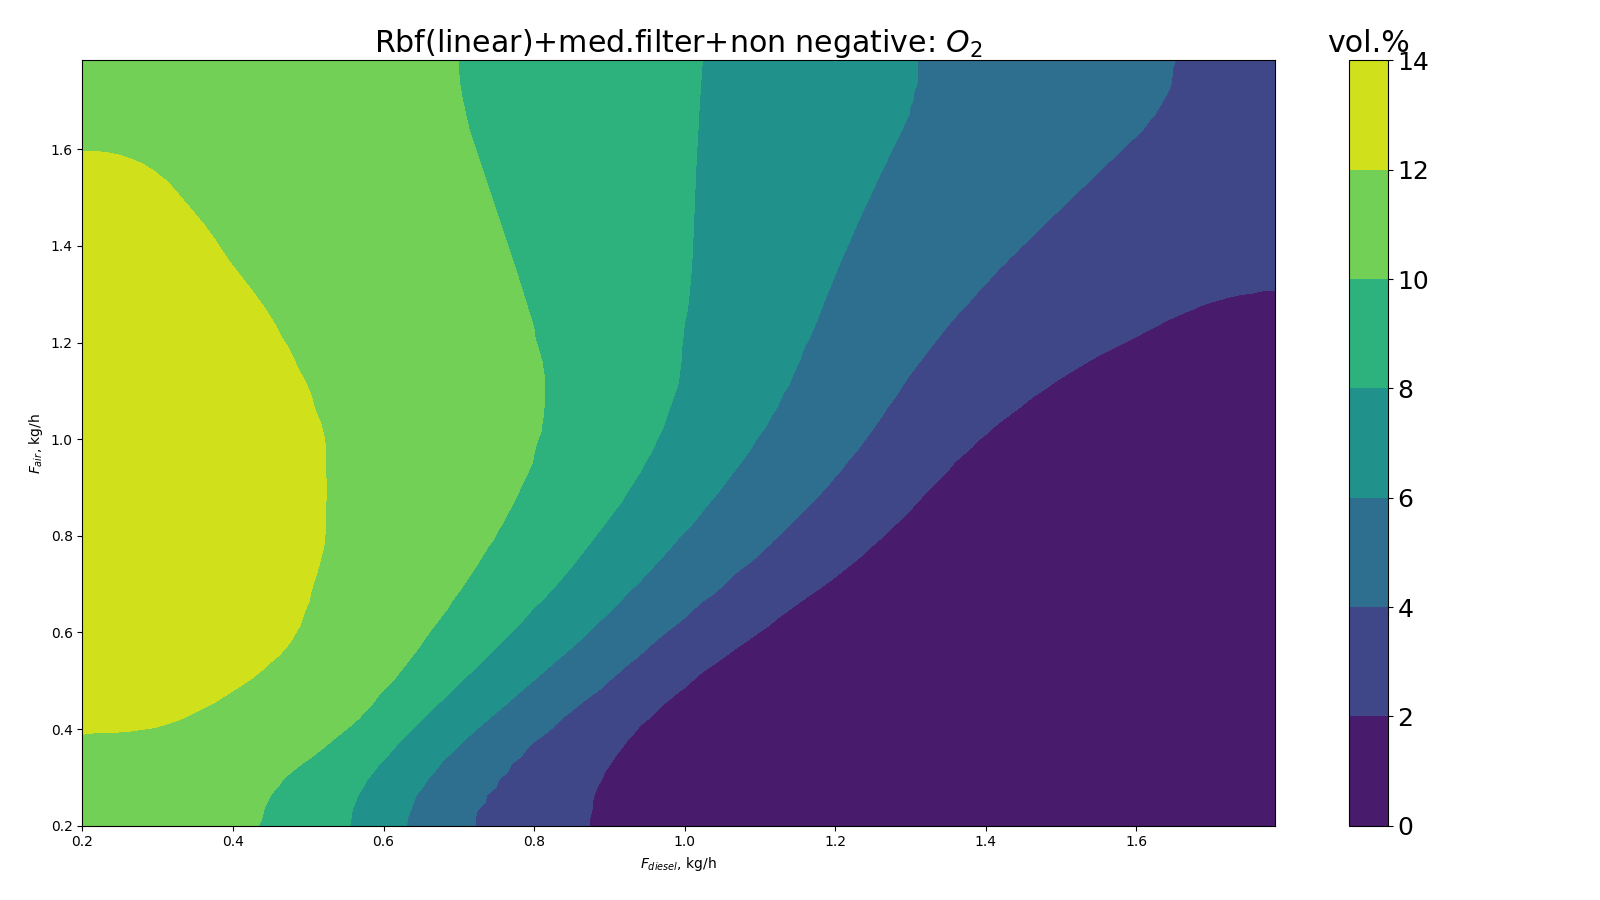
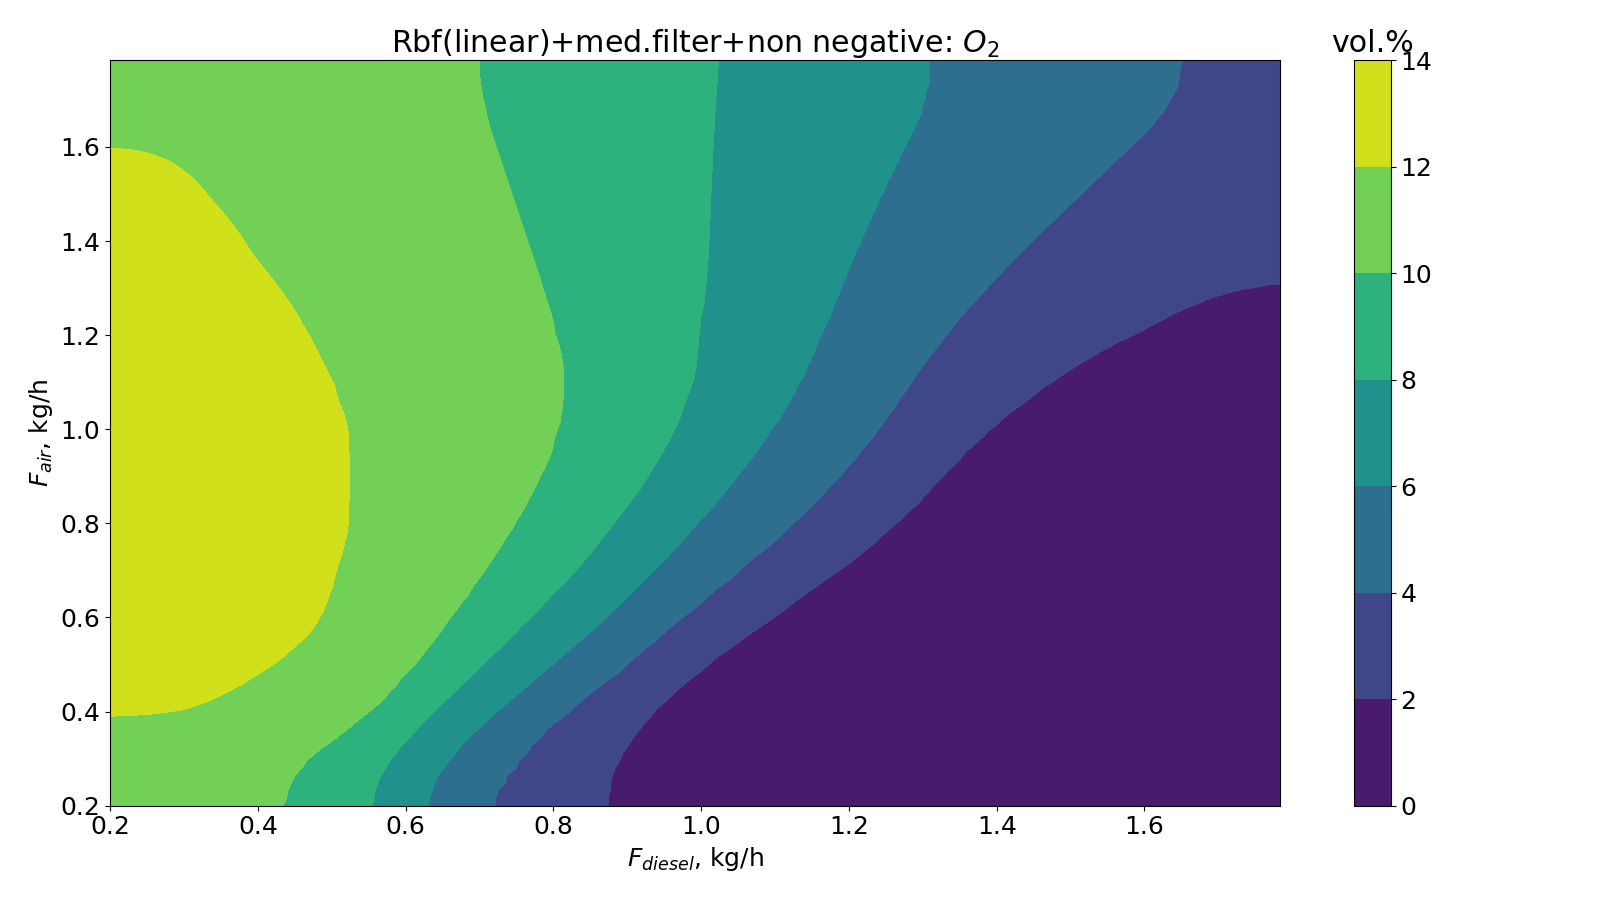
[Map] save_all_rbf_map [bug]: исправлен мелкий шрифт на O2.

diff --git a/control/map.py b/control/map.py
@@ -116,8 +116,9 @@ class Map:
 
             fig, ax = plt.subplots(figsize=(16, 9))
             plt.rcParams.update({'font.size': 18})
+            ax.tick_params(axis='both', which='both', labelsize=18)
 
-            plt.contourf(fuel_axis, additive_axis, approximated_component_surface)  # TODO custom colormap
+            plt.contourf(fuel_axis, additive_axis, approximated_component_surface)
 
             # Название графика
             if self.experiment_data.component_name == 'O2':
@@ -152,10 +153,10 @@ class Map:
                 ax.set_xlabel(r"$F_{\text{heavy oil}}$, kg/h")
 
             else:
-                ax.set_xlabel(f"$F_{{{self.experiment_data.fuel_name}}}$, kg/h")
-            ax.set_ylabel(f"$F_{{{self.experiment_data.additive_name}}}$, kg/h")
+                ax.set_xlabel(f"$F_{{{self.experiment_data.fuel_name}}}$, kg/h", fontsize=18)
+            ax.set_ylabel(f"$F_{{{self.experiment_data.additive_name}}}$, kg/h", fontsize=18)
 
-            # Подпись цветовых значений
+            # Подпись colorbar
             clb = plt.colorbar()
             if self.experiment_data.component_name in ["O2", "CO2"]:
                 clb.ax.set_title(r"vol.%")
